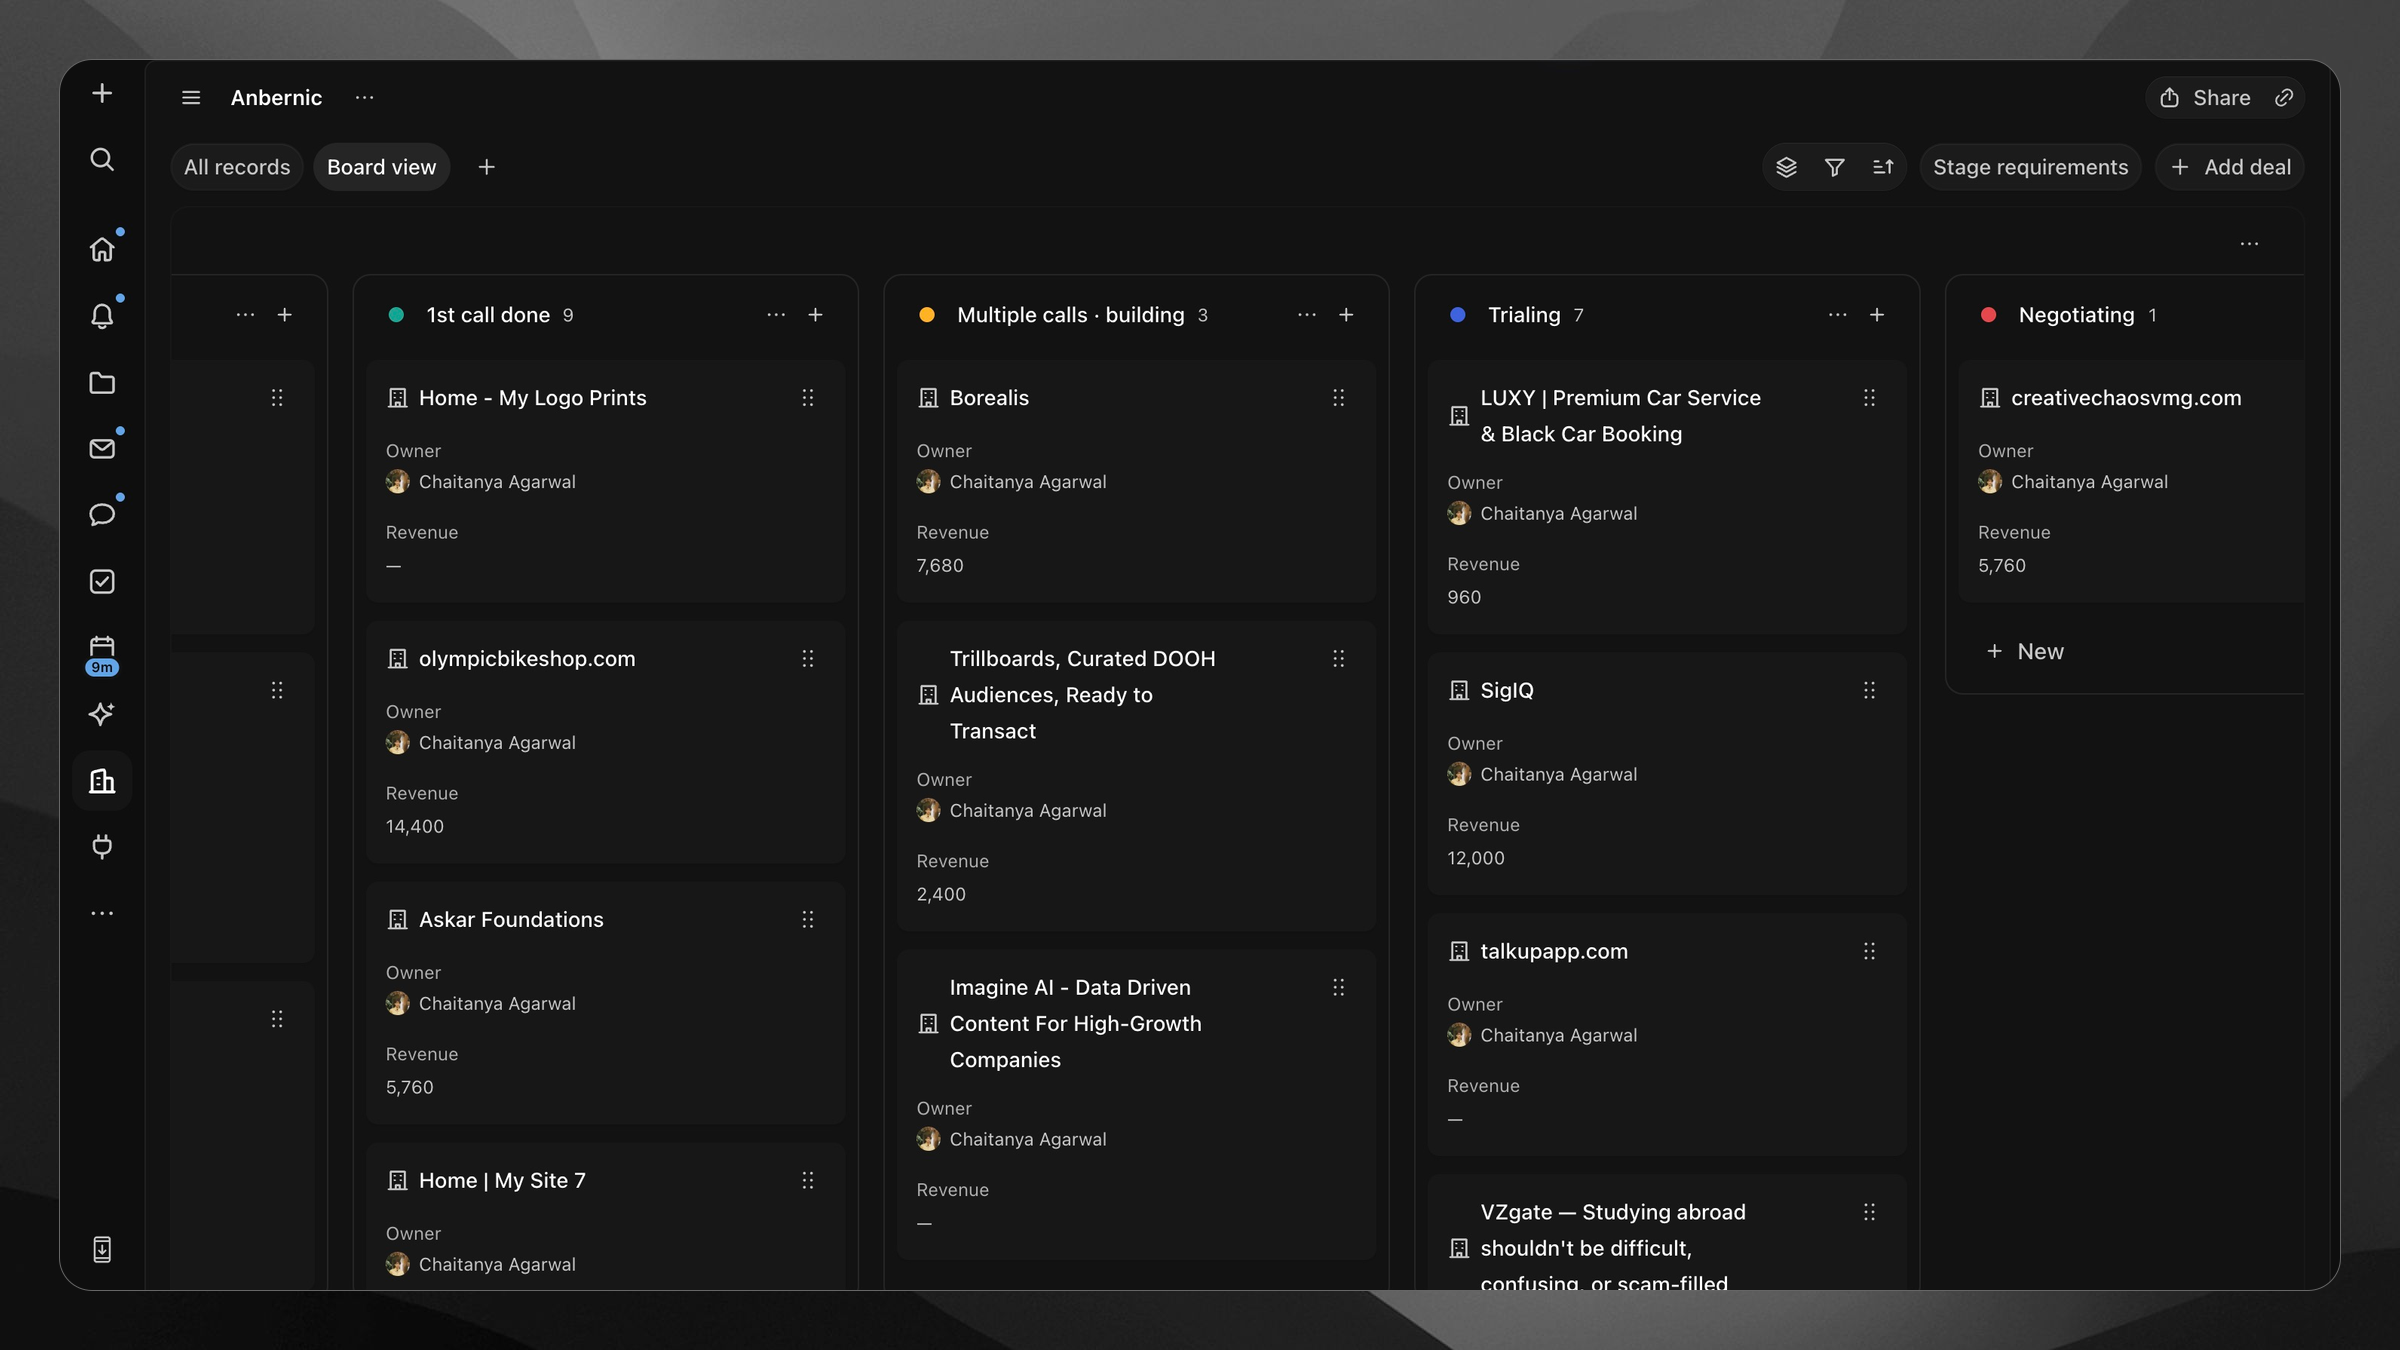
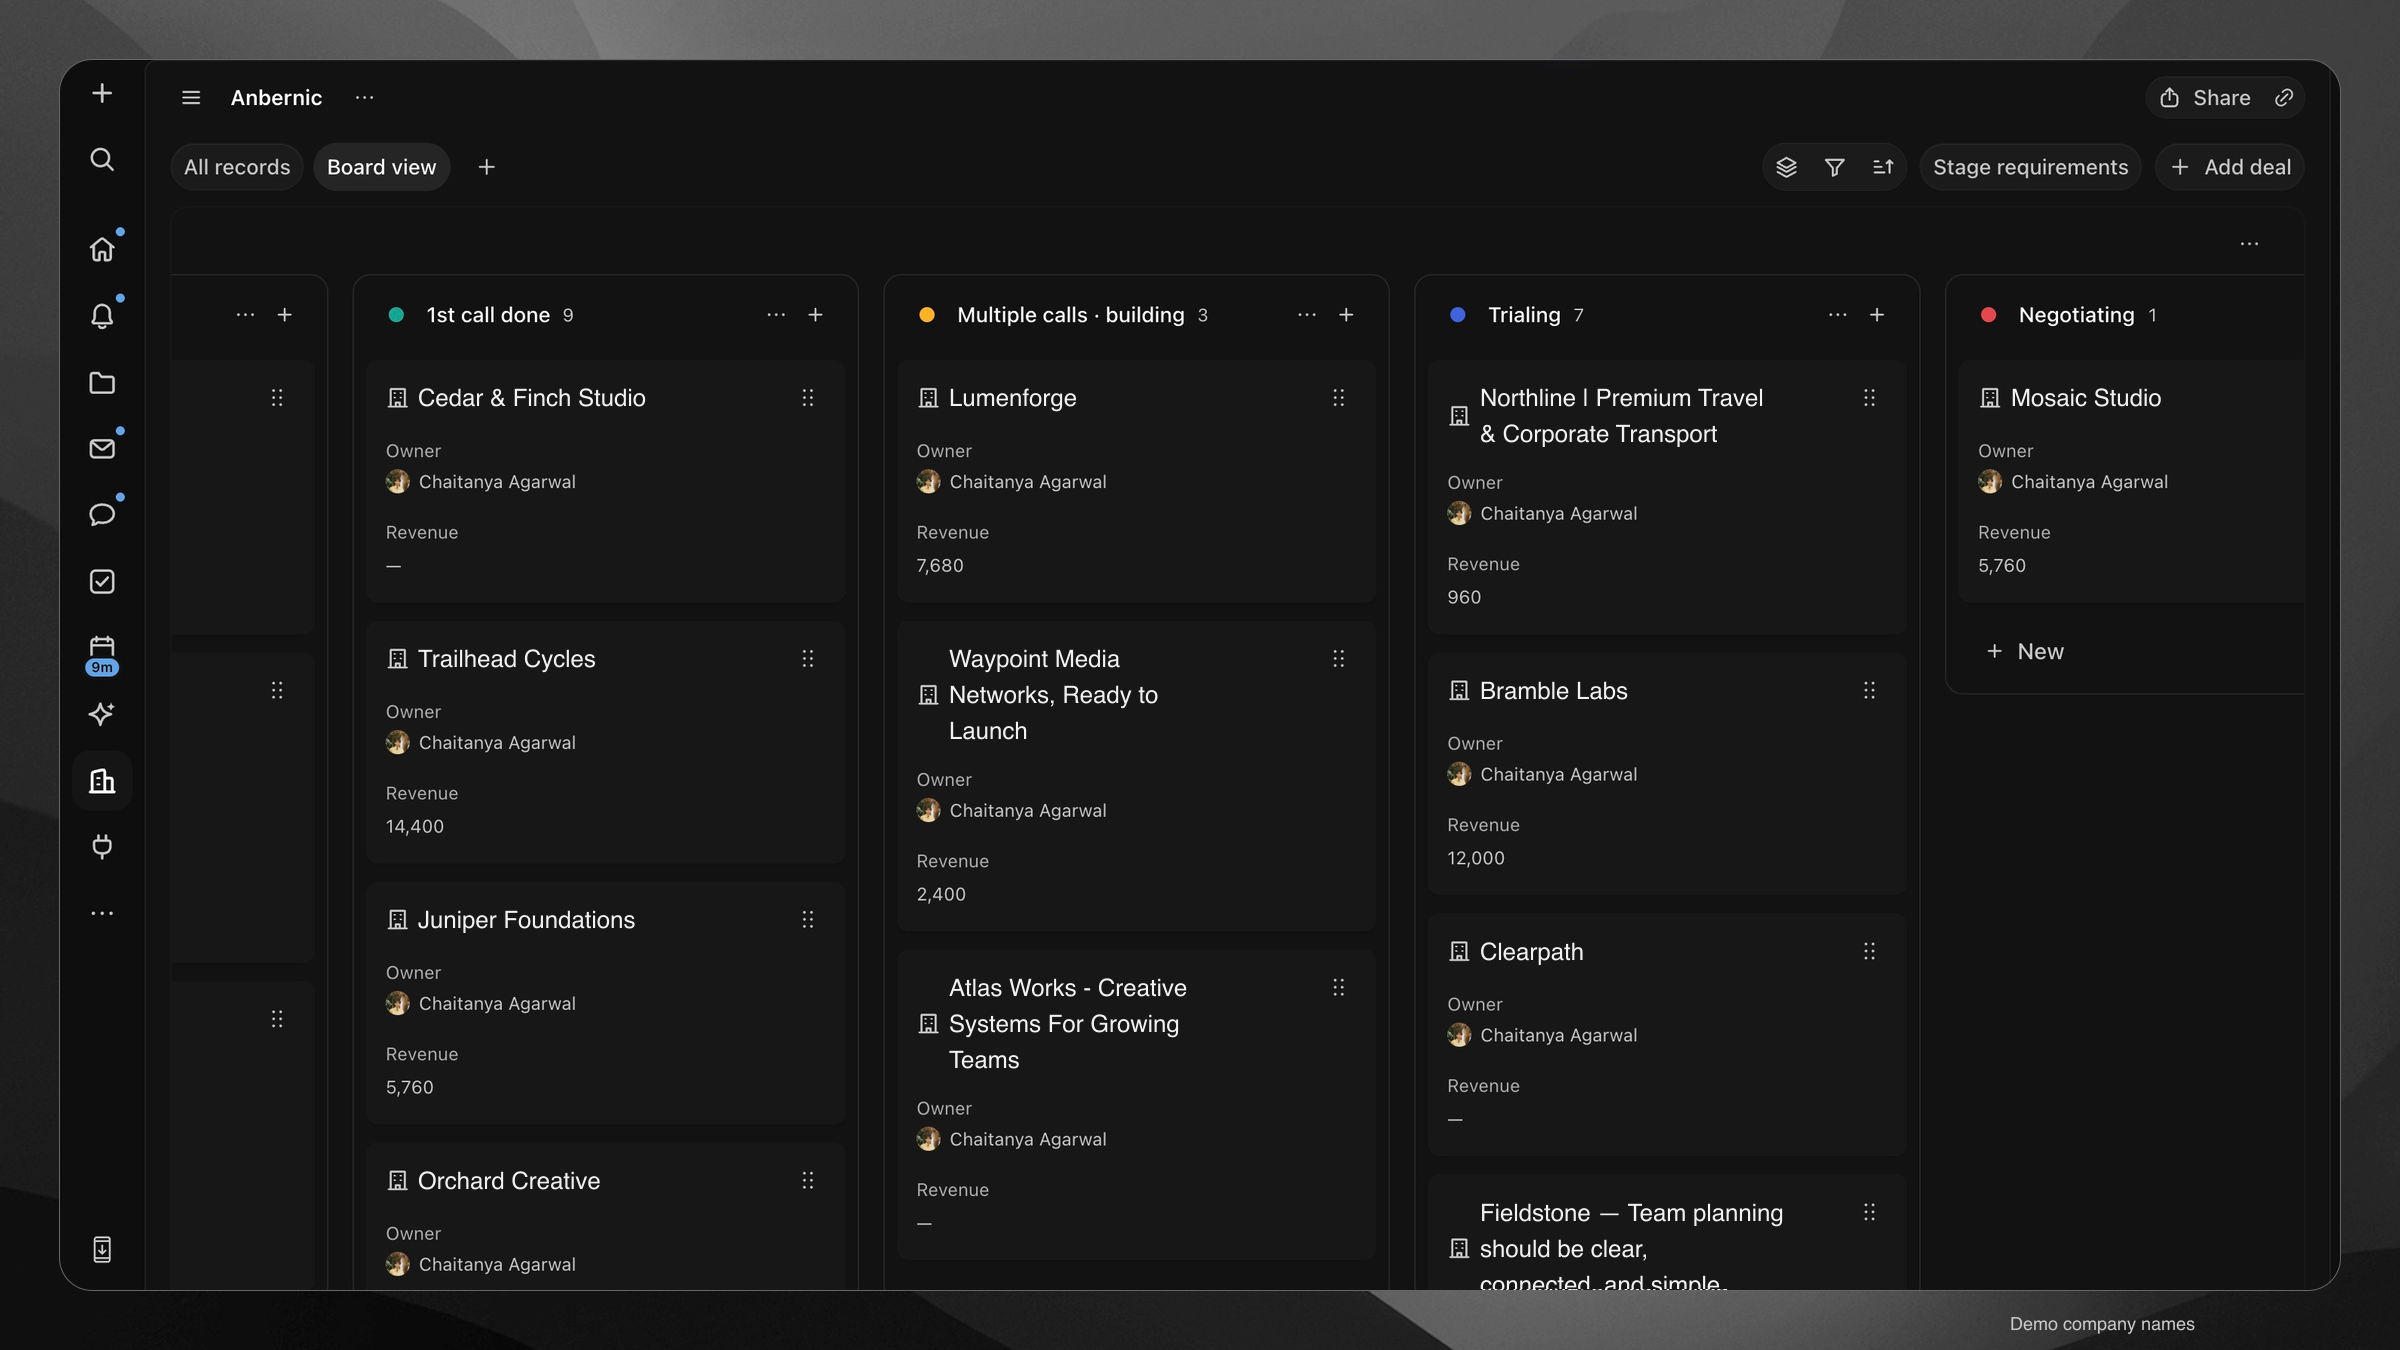
docs(readme): use labeled demo email and company content
Why: Calendar-heavy email content and real company titles distracted from the product views.

What: Replace only approved content regions with fictional examples, preserving original UI pixels and documenting the demo treatment.

diff --git a/.github/readme/README.md b/.github/readme/README.md
@@ -41,21 +41,24 @@ Compare navigation icons and body text at equal output widths, not the number
 of rows or cards; each surface has its own layout density.
 
 Content stops at the viewport edge rather than using a
-different content-dependent aspect ratio for every image. Product pixels are
-never stretched, rewritten, or generated.
+different content-dependent aspect ratio for every image. Do not stretch product
+pixels. Email and CRM use the explicitly authorized, visibly labeled demo-content
+edits below; the remaining screenshots retain their original product content.
 
-- Email: Signal inbox with the calendar-invite filter, keeping the approved
-  invitation-overview content at baseline zoom. The filter excludes login-code
-  emails and private address previews; it was cleared after capture.
+- Email: labeled demo correspondence in the Signal inbox. Fictional sender names,
+  subjects, previews, row-type icons, and account identity replace real email
+  content. Navigation, controls, row spacing, dates, and framing retain the
+  original capture pixels.
 - Chat: the November 4 feature-request conversation, distinct from the header.
 - Tasks: restored original split capture with mixed statuses, assigned work, and
   a completed task with its linked discussion and code change.
 - Docs: the same PRD recaptured at baseline zoom.
 - Agents, Calendar: existing captures reframed consistently.
 - Databases: full original Donations Example capture, preserving all columns.
-- CRM: fresh desktop board capture at 100% app zoom, showing active deal stages,
-  owners, and revenue. Board layout replaces the uneven table rows. No records
-  were edited; neighboring columns stop naturally at the viewport edge.
+- CRM: desktop board at 100% zoom with labeled demo company names. Only company
+  title regions change; stages, counts, owner labels and avatars, revenue values,
+  card sizes, and controls retain the original capture pixels. No live records
+  were edited. Neighboring columns stop naturally at the viewport edge.
 - Calls: An internal group recording, paused near 0:35. People are on
   camera without a screen share. Portrait video and black bars are inherent in
   the recording; the transcript was scrolled independently.
@@ -65,8 +68,14 @@ are retained in the November 5 and 6 screenshot packages outside the repository.
 
 Preserve the supplied logo proportions, never upscale its raster, and check the
 transparent header against light and dark backgrounds. Keep image alt text and
-this asset guide in sync with replacements. Do not paint over real product text
-or fabricate people, messages, statuses, or results.
+this asset guide in sync with replacements. Keep demo-content images labeled
+and document their scope. Outside the authorized demo text and icon regions,
+preserve the original pixels; do not fabricate product controls, statuses,
+agent results, or live records.
+
+For the November 6 demo revisions, pixel comparison confirmed zero changes
+outside the declared content-edit regions and disclosure labels. Source images
+and edit-region manifests remain in the local demo screenshot package.
 
 Keep navigation when it adds context. Exclude system chrome, pointer highlights,
 and tooltips. Inspect all visible content before staging. Exclude credentials

diff --git a/README.md b/README.md
@@ -73,7 +73,7 @@ Macro Mail is inspired by Superhuman's keyboard-first interface with a few key a
 2. Unified inbox: emails, messages, @mentions, and tasks to complete, all in the same list. Use `j` `k` and `e` to navigate everything.
 3. Better AI, with a tools/MCP surface designed to work across inboxes and to help your agents more accurately retrieve information. For example, we expose a unified search tool that allows agents to search all file attachment PDFs (parsed out of email) directly, rather than pulling email threads then attachments. You can also draft, edit and send emails right from AI chats, without opening your email.
 
-![Signal inbox filtered to calendar invitations, with email navigation visible](.github/readme/framed/email.png)
+![Macro Signal inbox with fictional demo correspondence and email navigation visible](.github/readme/framed/email.png)
 
 4. Multitasking ability — Macro has a built-in window manager that lets you create 3+ splits (scales with monitor size) so you can draft emails while reviewing prior threads.
 5. Company/Contact objects. Macro has native CRM capability so you can `cmd+k` to a contact, like tim@acme.com to see all emails between you and that person, or companies, to see all emails and files between everyone on your team and everyone at that company, e.g. `@acme.com`. All of this right from your email without having to open a heavyweight CRM like HubSpot or Salesforce. Email aggregation by contact or company is also available to your agents so they can better assist with CRM-type queries and actions.
@@ -163,7 +163,7 @@ The problem with standalone CRM is the same as with task trackers: it's not up t
 
 **Macro fixes this by colocating your CRM with your team chat and email, instead of having a separate system.** When you @mention a company record in a message, your team can click that record to see the latest — it's much faster than navigating to your CRM to find the record, going back to Slack and pasting it in, and this speed difference makes all the difference. Secondly, @mentioning a Company/Contact creates a bidirectional link between that message and the record, so from the record later you can trace the conversations that happened. This fixes the core issue we had with Attio/HubSpot/Salesforce: the actual important conversation about a deal happens not in the CRM but over messages. Macro makes this a feature rather than making you feel disorganized about it. It's not your fault, it was the CRM's fault!
 
-![Macro CRM board with active pipeline stages, assigned owners, and deal revenue](.github/readme/framed/crm.png)
+![Macro CRM board with demo company names, active pipeline stages, assigned owners, and deal revenue](.github/readme/framed/crm.png)
 
 - Customizable sales pipelines and deal stages with board and list views.
 - Company and contact records have their own discussions where your team can leave notes and @mention people and work.
